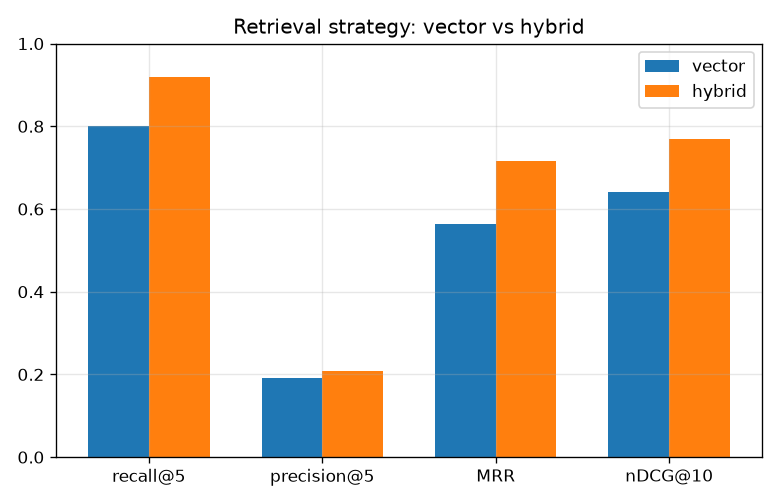
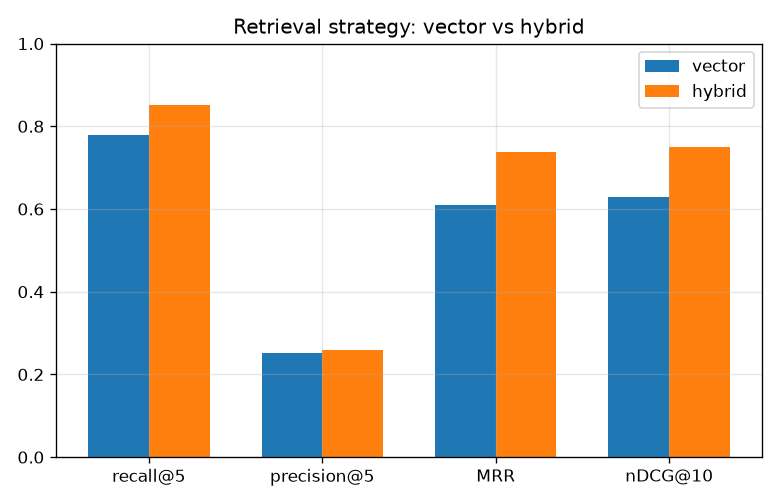
commit final

diff --git a/scripts/run_ablation.py b/scripts/run_ablation.py
@@ -92,7 +92,10 @@ def _build_and_evaluate(config: dict[str, Any], top_k: int, gt_path: str) -> dic
     store.save(str(ABLATION_DIR / config["name"]))
 
     gt = load_gt(gt_path)
-    retriever = Retriever(embedder, store, mode=config.get("mode", "hybrid"))
+    retriever = Retriever(
+        embedder, store, mode=config.get("mode", "hybrid"),
+        candidate_pool=config.get("candidate_pool"),
+    )
     m = evaluate(retriever, gt, k=top_k)
 
     return {
@@ -102,6 +105,7 @@ def _build_and_evaluate(config: dict[str, Any], top_k: int, gt_path: str) -> dic
         "chunk_size": config.get("chunk_size"),
         "overlap": config.get("overlap"),
         "min_chunk_chars": config.get("min_chunk_chars") or 0,
+        "candidate_pool": retriever.candidate_pool,
         "n_chunks": len(chunks),
         "median_chunk_chars": round(statistics.median(len(c.text) for c in chunks), 1),
         "index_build_seconds": round(build_s, 2),
@@ -223,8 +227,37 @@ def experiment_min_chunk(top_k: int = 5, gt_path: str = str(GT_PATH)) -> list[di
     return rows
 
 
+def experiment_candidate_pool(top_k: int = 5, gt_path: str = str(GT_PATH)) -> list[dict[str, Any]]:
+    """D) How many candidates each retriever hands to RRF before fusion.
+
+    This one exists because of a bug: the pool used to be `top_k * 4`, so asking for
+    10 results changed the top-5 (a bigger BM25 pool re-shuffled the fusion). diagnose
+    (top_k=5) and evaluate (top_k=10) disagreed on the SAME config. The pool is now
+    fixed and independent of top_k; this sweep picks its value on evidence rather than
+    on a guess. Chunking, embeddings and mode are pinned — only the pool moves.
+    """
+    from app.schemas import settings  # noqa: E402
+
+    rows = []
+    for pool in (10, 20, 40, 80):
+        rows.append(
+            run_config(
+                {
+                    "name": f"pool_{pool}", "strategy": "section",
+                    "chunk_size": None, "overlap": None,
+                    "min_chunk_chars": settings.min_chunk_chars,
+                    "mode": "hybrid", "candidate_pool": pool,
+                },
+                top_k,
+                gt_path,
+            )
+        )
+    return rows
+
+
 EXPERIMENTS = {
     "chunk_size": experiment_chunk_size,
+    "candidate_pool": experiment_candidate_pool,
     "retrieval": experiment_retrieval,
     "min_chunk": experiment_min_chunk,
 }
@@ -253,6 +286,9 @@ _MD_COLUMNS = {
     "min_chunk": [
         ("min_chunk_chars", "min_chunk_chars"), ("n_chunks", "n_chunks"),
         ("stub_chunks_filtered", "stub_chunks_filtered"), ("median_chunk_chars", "median_chars"),
+    ],
+    "candidate_pool": [
+        ("candidate_pool", "candidate_pool"), ("n_chunks", "n_chunks"),
     ],
 }
 
@@ -317,6 +353,16 @@ def write_plot(rows: list[dict], path: Path, *, experiment: str, top_k: int) -> 
         ax.set_title("Retrieval strategy: vector vs hybrid")
         ax.legend()
 
+    elif experiment == "candidate_pool":
+        pools = [r["candidate_pool"] for r in rows]
+        ax.plot(pools, [r[recall_key] for r in rows], marker="o", label=recall_key)
+        ax.plot(pools, [r["MRR"] for r in rows], marker="s", label="MRR")
+        ax.axhline(0.75, ls="--", color="red", alpha=0.6, label="defense gate 0.75")
+        ax.set_xlabel("candidate_pool (candidates fused by RRF)")
+        ax.set_ylim(0, 1)
+        ax.set_title("Candidate-pool ablation")
+        ax.legend()
+
     else:  # min_chunk
         labels = [str(r["min_chunk_chars"]) for r in rows]
         ax.bar(labels, [r["n_chunks"] for r in rows], color="#999999", alpha=0.5, label="n_chunks")
@@ -343,6 +389,7 @@ _TITLES = {
     "chunk_size": "Chunk-size sweep (recursive) vs section (article-aware) baseline",
     "retrieval": "Retrieval strategy: vector vs hybrid (section chunking)",
     "min_chunk": "min_chunk_chars: filtering table-of-contents stub chunks",
+    "candidate_pool": "candidate_pool: how many candidates RRF fuses before truncating to top_k",
 }
 
 

diff --git a/app/retrieval.py b/app/retrieval.py
@@ -309,10 +309,12 @@ class Retriever:
         store: FaissStore,
         mode: str = "hybrid",
         cache_size: int = 256,
+        candidate_pool: Optional[int] = None,
     ) -> None:
         self.embedder = embedder
         self.store = store
         self.mode = mode
+        self.candidate_pool = candidate_pool or settings.candidate_pool
         self._bm25: Optional[BM25Index] = BM25Index(store.chunks) if mode == "hybrid" else None
         self._cache: "OrderedDict[str, list[RetrievedChunk]]" = OrderedDict()
         self._cache_size = cache_size
@@ -320,7 +322,7 @@ class Retriever:
         self.cache_misses = 0
 
     def _cache_key(self, query: str, top_k: int) -> str:
-        raw = f"{query}\x00{self.store.index_version}\x00{top_k}\x00{self.mode}"
+        raw = f"{query}\x00{self.store.index_version}\x00{top_k}\x00{self.mode}\x00{self.candidate_pool}"
         return hashlib.sha256(raw.encode("utf-8")).hexdigest()
 
     @staticmethod
@@ -354,7 +356,7 @@ class Retriever:
         # Over-fetch a FIXED candidate pool, never a multiple of the requested k, so
         # the fused ranking (and therefore the top-5) does not change when the caller
         # asks for a different number of results.
-        pool = max(settings.candidate_pool, k)
+        pool = max(self.candidate_pool, k)
         qvec = self.embedder.encode([query])[0]
         vector_hits = self.store.search(qvec, pool)
 

diff --git a/evaluation/results/ablation_candidate_pool.md b/evaluation/results/ablation_candidate_pool.md
@@ -1,0 +1,8 @@
+### candidate_pool: how many candidates RRF fuses before truncating to top_k
+
+| candidate_pool | n_chunks | recall@5 | precision@5 | MRR | nDCG@10 |
+|---|---|---|---|---|---|
+| 10 | 2394 | 0.889 | 0.281 | 0.761 | 0.762 |
+| 20 | 2394 | 0.852 | 0.267 | 0.740 | 0.738 |
+| 40 | 2394 | 0.852 | 0.259 | 0.738 | 0.750 |
+| 80 | 2394 | 0.815 | 0.244 | 0.725 | 0.748 |

diff --git a/evaluation/results/ablation_min_chunk.md b/evaluation/results/ablation_min_chunk.md
@@ -2,5 +2,5 @@
 
 | min_chunk_chars | n_chunks | stub_chunks_filtered | median_chars | recall@5 | precision@5 | MRR | nDCG@10 |
 |---|---|---|---|---|---|---|---|
-| 0 | 2394 | — | 166.000 | 0.880 | 0.272 | 0.757 | 0.779 |
-| 120 | 1335 | 1059 | 1369 | 0.920 | 0.208 | 0.716 | 0.768 |
+| 0 | 2394 | — | 166.000 | 0.852 | 0.259 | 0.738 | 0.750 |
+| 120 | 1335 | 1059 | 1369 | 0.889 | 0.200 | 0.700 | 0.748 |

diff --git a/evaluation/results/ablation_retrieval.md b/evaluation/results/ablation_retrieval.md
@@ -2,5 +2,5 @@
 
 | mode | n_chunks | build_s | encode_ms/chunk | recall@5 | precision@5 | MRR | nDCG@10 |
 |---|---|---|---|---|---|---|---|
-| vector | 1335 | 47.390 | 0.248 | 0.800 | 0.192 | 0.564 | 0.641 |
-| hybrid | 1335 | 48.000 | 0.289 | 0.920 | 0.208 | 0.716 | 0.768 |
+| vector | 2394 | 51.260 | 4.325 | 0.778 | 0.252 | 0.610 | 0.628 |
+| hybrid | 2394 | 39.170 | 0.281 | 0.852 | 0.259 | 0.738 | 0.750 |